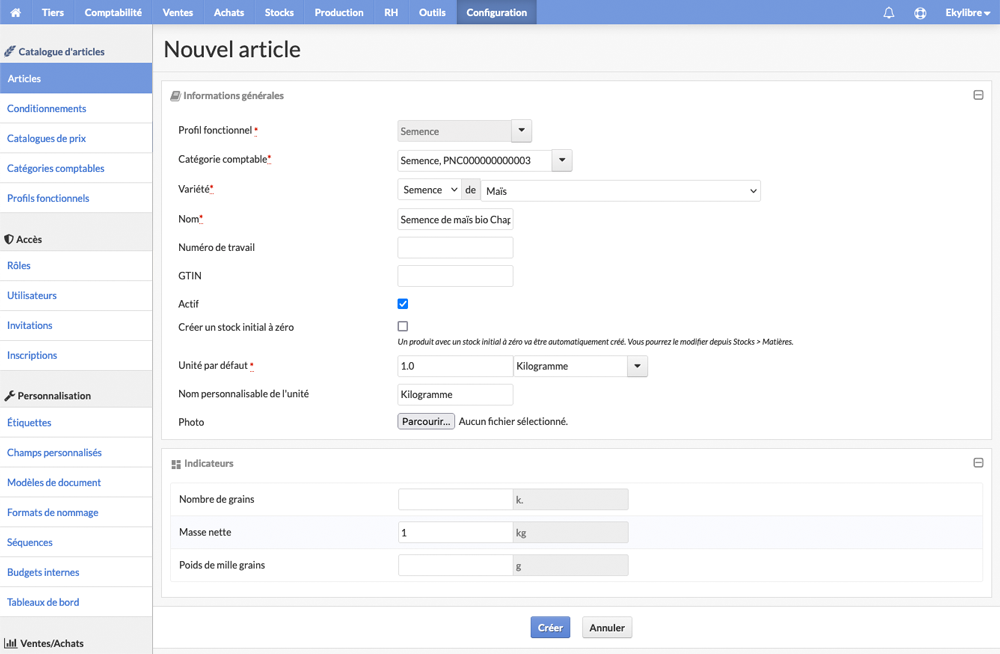
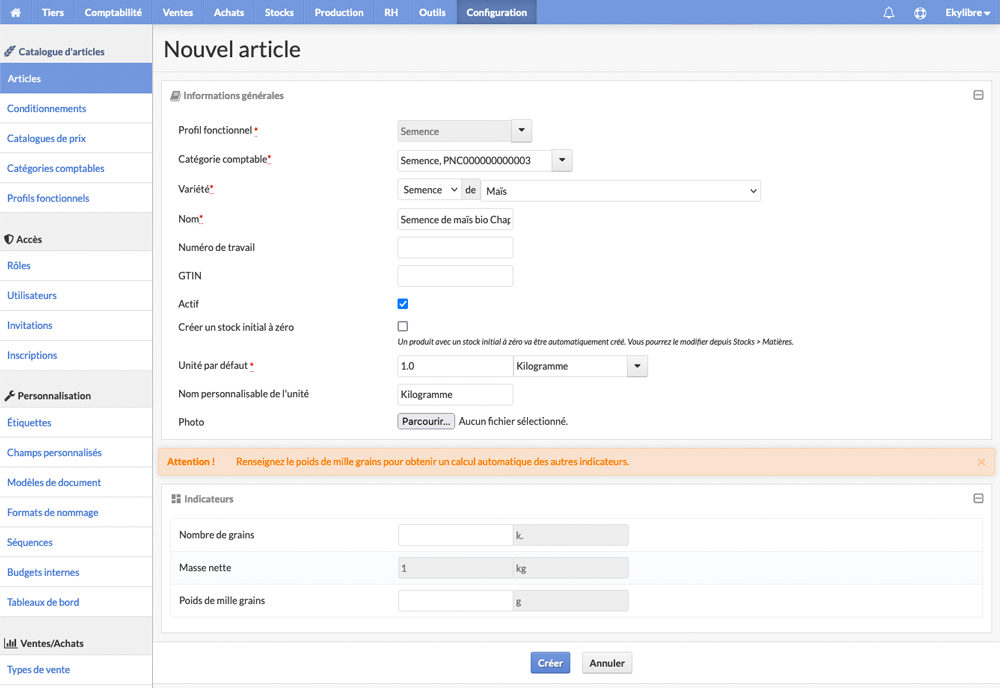
Màj 4.17 (semences) + Doc PDF

diff --git a/content/fr/chapitre8.html b/content/fr/chapitre8.html
@@ -799,7 +799,8 @@
       </div>
       <div class="process-txt">
          <span class="titre-advice">Renseignez le nouvel article</span>
-         <p>Sélectionnez sa catégorie et sa variété dans les listes déroulantes, puis saisissez sa dénomination pour la définir correctement. Renseignez, le cas échéant, la section des indicateurs.<br />Assurez-vous que la case<img src="../images/commun/check-square.svg" alt="Case à cocher" height="18" class="align-icone icone-marge-gauche icone-marge-droite">à droite de l'option "Actif" est cochée pour disposer du nouvel article.<br /> Notez que le champ optionnel GTIN fait référence au Global Trade Item Number, un code international unique qui permet d'identifier un produit.
+         <p>Sélectionnez sa catégorie et sa variété dans les listes déroulantes, puis saisissez sa dénomination pour la définir correctement.</p>
+		 <p>Assurez-vous que la case<img src="../images/commun/check-square.svg" alt="Case à cocher" height="18" class="align-icone icone-marge-gauche icone-marge-droite">à droite de l'option "Actif" est cochée pour disposer du nouvel article.<br /> Notez que le champ optionnel GTIN fait référence au Global Trade Item Number, un code international unique qui permet d'identifier un produit.
          </p>
 		 <p>En option, cochez la case<img src="../images/commun/check-square.svg" alt="Case à cocher" height="18" class="align-icone icone-marge-gauche icone-marge-droite">à droite du libellé "Créer un stock initial à zéro" pour générer, facilement et de façon automatique, le stock de la <a href="#nelle-matiere" target="_self" class="avoid-clicks">nouvelle matière</a> avec une quantité égale à 0.</p>
          <p class="max-img-process">
@@ -810,7 +811,7 @@
             <img src="../images/chapitre8/semence6.png" class="contour-img" alt="Nouvelle dénomination" data-action="zoom" />
          </p>
 		 <p>Lorsque vous réaliserez un achat, une vente, une réception ou la création d'un stock avec cet article, vous pourrez alors sélectionner ou créer un conditionnement personnalisé&nbsp;: sac de 20 ou de 25&nbsp;kg, etc.</p>
-		 <p>Si l'unité par défaut choisie est l'unité &#40;grain&#41;, renseignez le poids de mille grains pour obtenir un calcul automatique des autres indicateurs "Nombre de grains" et "Masse nette" dans la section "Indicateurs".</p>
+		 <p>Dans la section "Indicateurs" d'une semence et en fonction de l’unité par défaut qui a été choisie &#40;kg ou unité&#41;, <strong>renseignez le "Poids de mille grains"</strong> pour calculer et obtenir une conversion automatique des autres indicateurs "Nombre de grains" ou "Masse nette".</p>
 		 <p class="max-img-process">
             <img src="../images/chapitre8/semence7.png" class="contour-img" alt="Poids de mille grains" data-action="zoom" />
          </p>
@@ -858,8 +859,8 @@
       </div>
       <div class="process-txt">
          <span class="titre-advice">Renseignez le nouvel article</span>
-         <p>Sélectionnez sa catégorie et sa variété dans les listes déroulantes, puis saisissez sa dénomination pour la définir correctement. Renseignez, le cas échéant, la section des indicateurs. <br />Assurez-vous que la case<img src="../images/commun/check-square.svg" alt="Case à cocher" height="18" class="align-icone icone-marge-gauche icone-marge-droite">à droite de l'option "Actif" est cochée pour disposer du nouvel article.<br />Notez que le champ optionnel GTIN fait référence au Global Trade Item Number, un code international unique qui permet d'identifier un produit.
-         </p>
+         <p>Sélectionnez sa catégorie et sa variété dans les listes déroulantes, puis saisissez sa dénomination pour la définir correctement.</p>
+		 <p>Assurez-vous que la case<img src="../images/commun/check-square.svg" alt="Case à cocher" height="18" class="align-icone icone-marge-gauche icone-marge-droite">à droite de l'option "Actif" est cochée pour disposer du nouvel article.<br /> Notez que le champ optionnel GTIN fait référence au Global Trade Item Number, un code international unique qui permet d'identifier un produit.</p>
 		 <p>En option, cochez la case<img src="../images/commun/check-square.svg" alt="Case à cocher" height="18" class="align-icone icone-marge-gauche icone-marge-droite">à droite du libellé "Créer un stock initial à zéro" pour générer, facilement et de façon automatique, le stock de la <a href="#nelle-matiere" target="_self" class="avoid-clicks">nouvelle matière</a> avec une quantité égale à 0.</p>
          <p class="max-img-process">
             <img src="../images/chapitre8/variante4.png" class="contour-img" alt="Nouvel article" data-action="zoom" />
@@ -869,6 +870,10 @@
             <img src="../images/chapitre8/variante5.png" class="contour-img" alt="Nouvelle dénomination" data-action="zoom" />
          </p>
 		 <p>Lorsque vous réaliserez un achat, une vente, une réception ou la création d'un stock avec cet article, vous pourrez alors sélectionner ou créer un conditionnement personnalisé&nbsp;: sac de 20 ou de 25&nbsp;kg, etc.</p>
+		 <p>Dans la section "Indicateurs" d'une semence et en fonction de l’unité par défaut qui a été choisie &#40;kg ou unité&#41;, <strong>renseignez le "Poids de mille grains"</strong> pour calculer et obtenir une conversion automatique des autres indicateurs "Nombre de grains" ou "Masse nette".</p>
+		 <p class="max-img-process">
+            <img src="../images/chapitre8/variante6.png" class="contour-img" alt="Poids de mille grains" data-action="zoom" />
+         </p>
          <p>Cliquez sur <span class="btn-blue">Créer</span> pour valider l'opération.</p>
       </div>
       <h6>Guide de prise en main • Stocks, tiers et RH • Produit phytosanitaire</h6>
@@ -877,7 +882,7 @@
 	  <p align="center" class="aerateur-haut aerateur-bas texte">
          <img src="../images/chapitre8/illus-phyto.png" alt="Illustration produit phytosanitaire" width="450px" />
       </p>
-      <p class="texte">Une fois stockés, ces produits pourront être sélectionnés dans le cadre de l'enregistrement des interventions de <a href="../chapitre9#pulverisation" class="avoid-clicks">pulvérisation</a>, de semis &#171;&nbsp;tout-en-un&nbsp;&#187;, de semis avec pulvérisation et de désherbinage avec un contrôle du nombre d'application&#40;s&#41;, des intervalles entre les applications, du dosage maximal autorisé pour un usage donné, des mélanges autorisés, etc.</p>
+      <p class="texte">Une fois importés et en stock, ces produits peuvent être sélectionnés lors de l'enregistrement des interventions de <a href="../chapitre9#pulverisation" class="avoid-clicks">pulvérisation</a>, de semis &#171;&nbsp;tout-en-un&nbsp;&#187;, de semis avec pulvérisation, de plantation &#171;&nbsp;tout-en-un&nbsp;&#187; et de désherbinage, avec un contrôle du nombre d'application&#40;s&#41;, des intervalles entre les applications, du dosage maximal autorisé pour un usage donné, des mélanges autorisés, etc.</p>
       <p class="texte">Le processus suivant vous guide pour importer un article de la sous-nature "Produits phytosanitaires".</p>
       <div class="floating-box process">
          <img src="../images/commun/step1.svg" alt="1" width="52" />
@@ -1348,7 +1353,7 @@
          <p class="max-img-process">
             <img src="../images/chapitre8/categorie10.png" class="contour-img" alt="Liste des articles" data-action="zoom" />
          </p>
-		 <p>… ou, depuis la vue détaillée de l'article initial, cliquez sur le bouton<img class="btn-gris icone-marge-gauche icone-marge-droite" src="../images/commun/dupliquer.svg" alt="Dupliquer">pour obtenir un nouvel article aux caratéristiques identiques à celui qui est affiché, mais avec un nom qui hérite d'un numéro pour le distinguer de l'élément dupliqué. Vous pouvez ensuite renommer ce nouvel article.</p>
+		 <p>… ou, depuis la vue détaillée de l'article initial, cliquez sur le bouton<img class="btn-gris icone-marge-gauche icone-marge-droite" src="../images/commun/dupliquer.svg" alt="Dupliquer">pour obtenir un nouvel article aux caractéristiques identiques à celui qui est affiché, mais avec un nom qui hérite d'un numéro pour le distinguer de l'élément dupliqué. Vous pouvez ensuite renommer ce nouvel article.</p>
 		 <p class="max-img-process">
             <img src="../images/chapitre8/categorie11.png" class="contour-img" alt="Vue détaillée de l'article" data-action="zoom" />
          </p>

diff --git a/content/fr/notes-version.html b/content/fr/notes-version.html
@@ -107,7 +107,8 @@
 			{dates: [new Date(2022, 10, 3), new Date(2022, 11, 14)], title: "Version 4.13", attrs: {fill: "#5b57e5", stroke: "#5b57e5"}},
 			{dates: [new Date(2022, 11, 15), new Date(2022, 12, 8)], title: "Version 4.14", attrs: {fill: "#fea40b", stroke: "#fea40b"}},
 			{dates: [new Date(2022, 12, 9), new Date(2022, 12, 29)], title: "Version 4.15", attrs: {fill: "#fa5554", stroke: "#fa5554"}},
-			{dates: [new Date(2022, 12, 30), new Date(annee, mois, jour)], title: "Version 4.16", attrs: {fill: "#5b57e5", stroke: "#5b57e5"}}
+			{dates: [new Date(2022, 12, 30), new Date(2023, 1, 15)], title: "Version 4.16", attrs: {fill: "#5b57e5", stroke: "#5b57e5"}},
+			{dates: [new Date(2023, 1, 16), new Date(annee, mois, jour)], title: "Version 4.16", attrs: {fill: "#fea40b", stroke: "#fea40b"}}
          ];
          
          var sections = [
@@ -245,7 +246,7 @@
                                        <p class="improve"><img src="../images/notes-version/check.svg" alt="Amélioration" height="20" class="align-icone icone-marge-droite">Améliorations&nbsp;:</p>
                                        <ul>
                                           <li>À la création d'un nouvel article stockable de sous-nature "Semences et plants", la liste des unités par défaut proposées est maintenant filtrée afin de réduire les risques d'erreur lors de leur sélection&nbsp;;</li>
-										  <li>Dans la section "Indicateurs" d'une semence, le poids de mille grains doit être renseigné pour calculer et obtenir la conversion automatique les autres indicateurs "Nombre de grains" et "Masse nette"&nbsp;;</li>
+										  <li>Dans la section "Indicateurs" d'une semence et en fonction de l’unité par défaut qui est choisie, le poids de mille grains doit être renseigné pour calculer et obtenir la conversion automatique des autres indicateurs "Nombre de grains" ou "Masse nette"&nbsp;;</li>
 										  <li>Le bouton permettant la configuration de nouveaux profils fonctionnels est désormais masqué afin d'éliminer les difficultés rencontrées par les utilisateurs lors du paramétrage des compétences, des indicateurs fixes et variables. L'import de profils de référence reste disponible et demeure l'action à privilégier.</li>
                                        </ul>
                                     </div>
@@ -6592,7 +6593,7 @@
                      <p class="improve"><img src="../images/notes-version/check.svg" alt="Amélioration" height="20" class="align-icone icone-marge-droite">Améliorations&nbsp;:</p>
                      <ul>
 						<li>À la création d'un nouvel article stockable de sous-nature "Semences et plants", la liste des unités par défaut proposées est maintenant filtrée afin de réduire les risques d'erreur lors de leur sélection&nbsp;;</li>
-						<li>Dans la section "Indicateurs" d'une semence, le poids de mille grains doit être renseigné pour calculer et obtenir la conversion automatique les autres indicateurs "Nombre de grains" et "Masse nette"&nbsp;;</li>
+						<li>Dans la section "Indicateurs" d'une semence et en fonction de l’unité par défaut qui est choisie, le poids de mille grains doit être renseigné pour calculer et obtenir la conversion automatique des autres indicateurs "Nombre de grains" ou "Masse nette"&nbsp;;</li>
 						<li>Le bouton permettant la configuration de nouveaux profils fonctionnels est désormais masqué afin d'éliminer les difficultés rencontrées par les utilisateurs lors du paramétrage des compétences, des indicateurs fixes et variables. L'import de profils de référence reste disponible et demeure l'action à privilégier.</li>
                      </ul>
                   </div>
